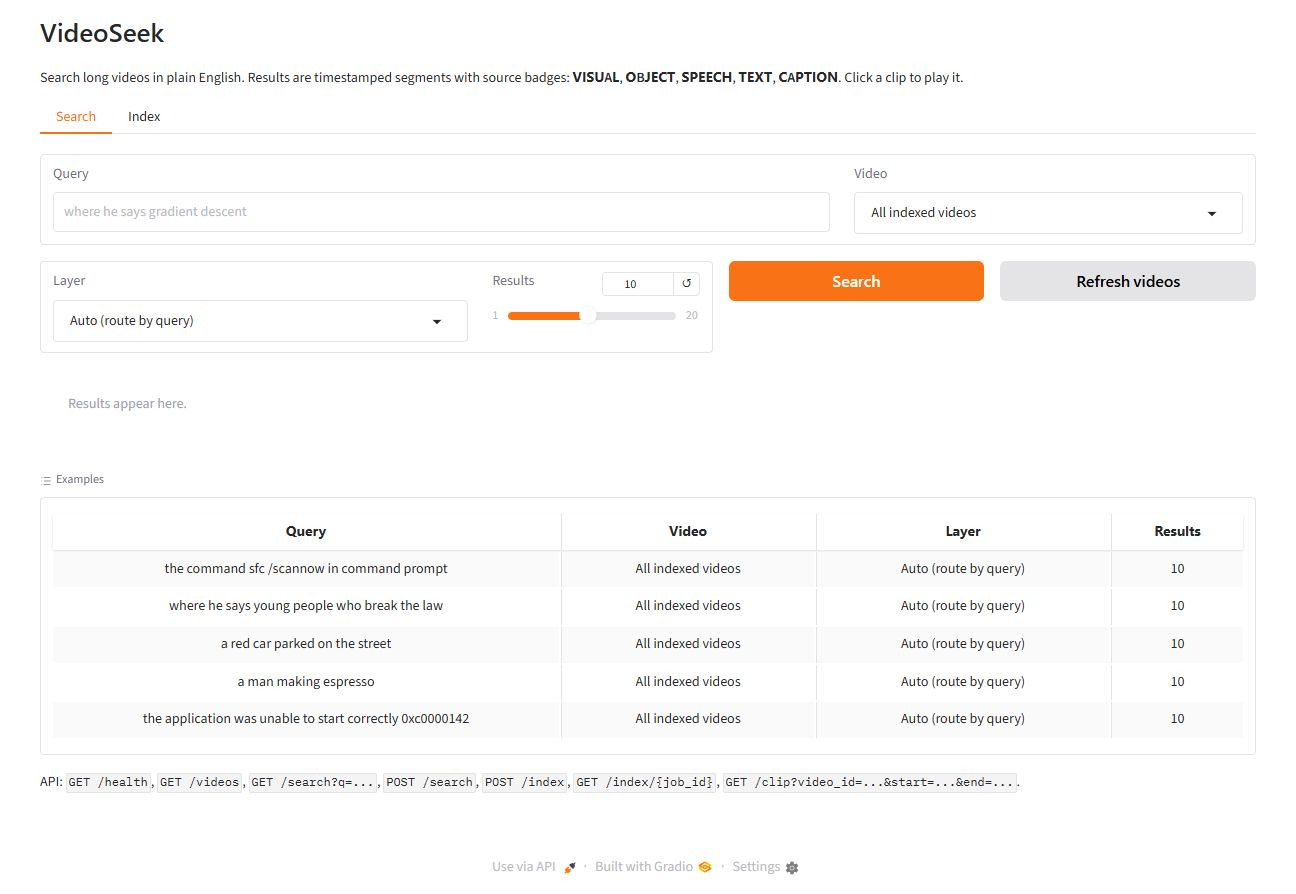
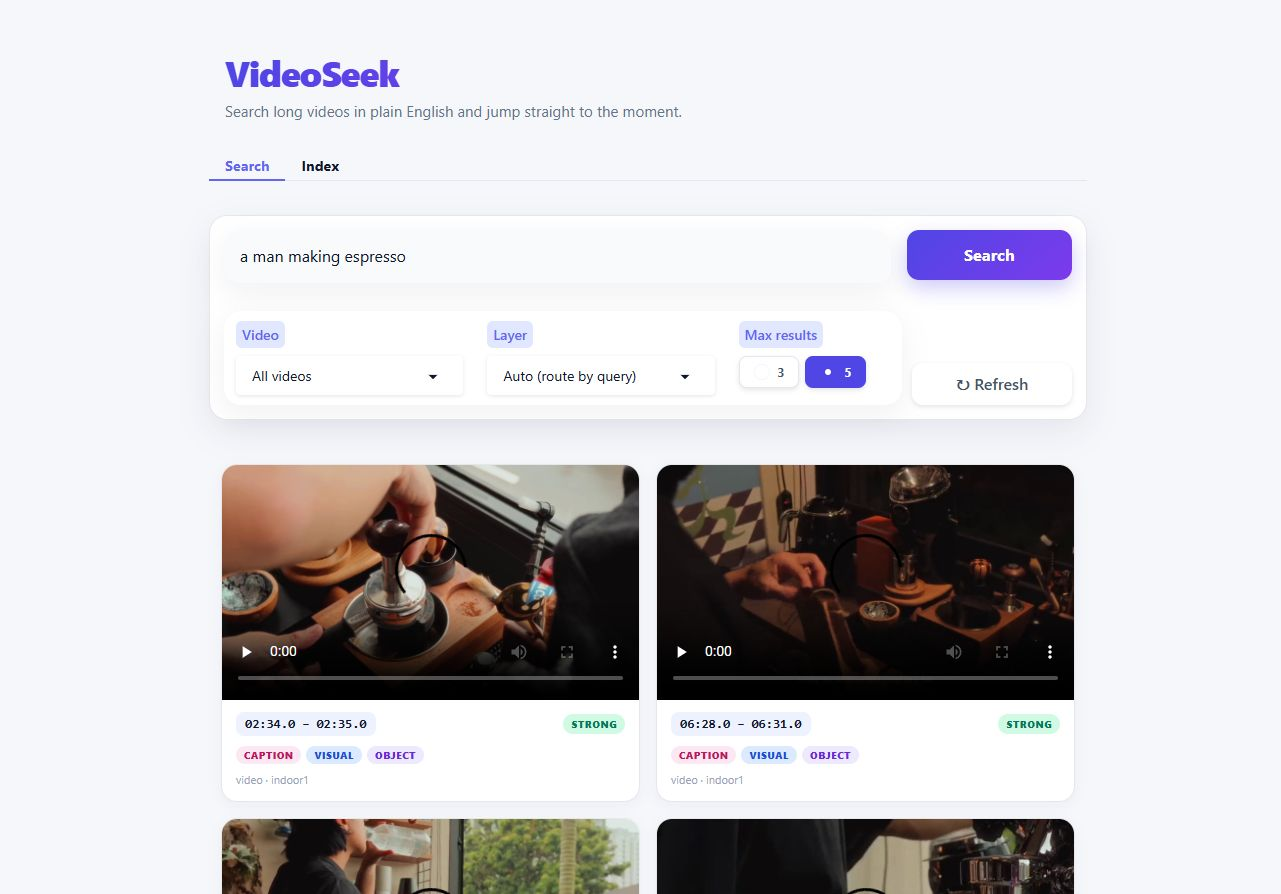
fix(release): ready the UI and dependencies for a public install
- require Gradio 6.31+ for mount-time theme/css (Gradio 5 mount rejects them)
- scope 'All videos' to selectable, non-benchmark sources
- fix selected max-results contrast and refresh the UI screenshot
- document benchmark-clip visibility and add scope tests (134 total)

diff --git a/tests/test_service.py b/tests/test_service.py
@@ -5,10 +5,13 @@ from __future__ import annotations
 import tempfile
 import unittest
 from pathlib import Path
+from unittest.mock import patch
 
 from src.config import Config, load_config
+from src.search import service
 from src.search.service import (
     _nearest_frame_path,
+    _restrict_to_videos,
     infer_layers,
     is_selectable_source,
     segment_relevance,
@@ -102,6 +105,56 @@ class SelectableVideoTests(unittest.TestCase):
         ]
         selected = selectable_videos(self.config, videos)
         self.assertEqual([item["video_id"] for item in selected], ["good"])
+
+
+class SearchScopeTests(unittest.TestCase):
+    def test_restrict_hits_to_allowed_videos(self) -> None:
+        hits = [
+            {"video_id": "visible"},
+            {"video_id": "hidden"},
+            {"video_id": None},
+        ]
+        self.assertEqual(
+            _restrict_to_videos(hits, {"visible"}),
+            [{"video_id": "visible"}],
+        )
+        self.assertEqual(_restrict_to_videos(hits, None), hits)
+
+    def test_only_selectable_drops_hidden_hits(self) -> None:
+        config = load_config()
+        layer_hits = [
+            {
+                "video_id": "visible",
+                "layer": "frame",
+                "score": 0.12,
+                "timestamp": 1.0,
+                "start": 1.0,
+                "end": 2.0,
+                "path": "data/frames/visible/000001.jpg",
+            },
+            {
+                "video_id": "hidden",
+                "layer": "frame",
+                "score": 0.50,
+                "timestamp": 1.0,
+                "start": 1.0,
+                "end": 2.0,
+                "path": "data/frames/hidden/000001.jpg",
+            },
+        ]
+        with patch.object(
+            service,
+            "selectable_videos",
+            return_value=[{"video_id": "visible"}],
+        ), patch.object(service, "_search_layer", return_value=layer_hits):
+            payload = service.search(
+                "test", config, layers="frames", top_k=5, only_selectable=True
+            )
+        self.assertEqual(payload["videos"], ["visible"])
+        self.assertEqual(
+            [segment["video_id"] for segment in payload["segments"]],
+            ["visible"],
+        )
 
 
 class AdaptiveResultTests(unittest.TestCase):

diff --git a/src/search/service.py b/src/search/service.py
@@ -177,6 +177,7 @@ def search(
     device: Optional[str] = None,
     use_bm25: Optional[bool] = None,
     adaptive: bool = True,
+    only_selectable: bool = False,
 ) -> dict[str, Any]:
     """Run a UI search and return ranked, enriched segments."""
     text = query.strip()
@@ -197,6 +198,12 @@ def search(
     else:
         layer_keys = [LAYER_KEY.get(str(item), str(item)) for item in requested]
 
+    allowed_video_ids: Optional[set[str]] = None
+    if only_selectable and video_id is None:
+        allowed_video_ids = {
+            str(item["video_id"]) for item in selectable_videos(config)
+        }
+
     hits_by_layer: dict[str, list[dict[str, Any]]] = {}
     for layer_key in layer_keys:
         hits = _search_layer(
@@ -208,6 +215,7 @@ def search(
             device=device,
             use_bm25=use_bm25,
         )
+        hits = _restrict_to_videos(hits, allowed_video_ids)
         if hits:
             hits_by_layer[layer_key] = hits
 
@@ -409,6 +417,17 @@ def segment_relevance(segment: dict[str, Any], config: Config) -> float:
             evidence.get("dense_score"), evidence.get("bm25_score"), config
         )
     return 0.0
+
+
+def _restrict_to_videos(
+    hits: list[dict[str, Any]], allowed: Optional[set[str]]
+) -> list[dict[str, Any]]:
+    """Drop hits whose video is outside the allowed set."""
+    if allowed is None:
+        return hits
+    return [
+        hit for hit in hits if str(hit.get("video_id")) in allowed
+    ]
 
 
 def select_adaptive(

diff --git a/src/ui/app.py b/src/ui/app.py
@@ -14,7 +14,7 @@ import gradio as gr
 from src.api.jobs import get_config, get_job, start_job
 from src.search import service
 
-ALL_VIDEOS = "All indexed videos"
+ALL_VIDEOS = "All videos"
 LAYERS = [
     ("Auto (route by query)", "auto"),
     ("All layers (RRF)", "all"),
@@ -138,6 +138,20 @@ footer { display: none !important; }
   letter-spacing: 0.06em;
   text-transform: uppercase;
 }
+#vs-max .wrap { gap: 6px; }
+#vs-max label {
+  padding: 6px 14px !important;
+  border: 1px solid #e2e8f0 !important;
+  border-radius: 8px !important;
+  text-transform: none;
+  letter-spacing: 0;
+}
+#vs-max label.selected {
+  border-color: transparent !important;
+  background: #4f46e5 !important;
+}
+#vs-max label.selected span { color: #ffffff !important; }
+#vs-max label:not(.selected) span { color: #475569 !important; }
 #vs-refresh {
   border-radius: 11px !important;
   color: #475569 !important;
@@ -426,6 +440,7 @@ def run_search(
             layers=layer or "auto",
             top_k=int(max_results or DEFAULT_MAX_RESULTS),
             adaptive=bool(config.get("search.adaptive", True)),
+            only_selectable=True,
         )
     except Exception as exc:  # noqa: BLE001 - UI boundary
         return (

diff --git a/README.md b/README.md
@@ -25,6 +25,7 @@ Results are returned as time segments with a source badge, so you can see **why*
 ## Requirements
 
 - **Python 3.10+**
+- **Gradio 6.31+** (installed by `requirements.txt`; the UI mounts its theme and CSS through Gradio 6)
 - **FFmpeg** on `PATH` (required for audio and video decoding)
 - **GPU recommended** (tested target: NVIDIA RTX 3060 12 GB). CPU works but indexing is much slower.
 - **Disk:** model weights several GB on first run; roughly 50–400 MB per hour of indexed video depending on thumbnail settings.
@@ -227,6 +228,10 @@ The public number uses **50 Charades-STA test videos and 399 queries**, selected
 | Any overlap | 0.692 |
 
 This is a frame-retrieval baseline, not a trained temporal-grounding model. The project's 1-second segment policy is too narrow for 30-second Charades clips (R@1 IoU 0.5 = 0.008); the fixed-window protocol is reported explicitly in `benchmarks/public/results/`. Reproduce with `scripts/prepare_charades_sta.py`, `scripts/index_public.py`, and `scripts/evaluate_public.py`.
+
+Benchmark clips stay under `data/public/` and are hidden from the interactive
+video picker and from *All videos* searches; use the evaluation scripts or
+`/search?video_id=<ID>` to query them.
 
 ## Optional VLM reranker
 
